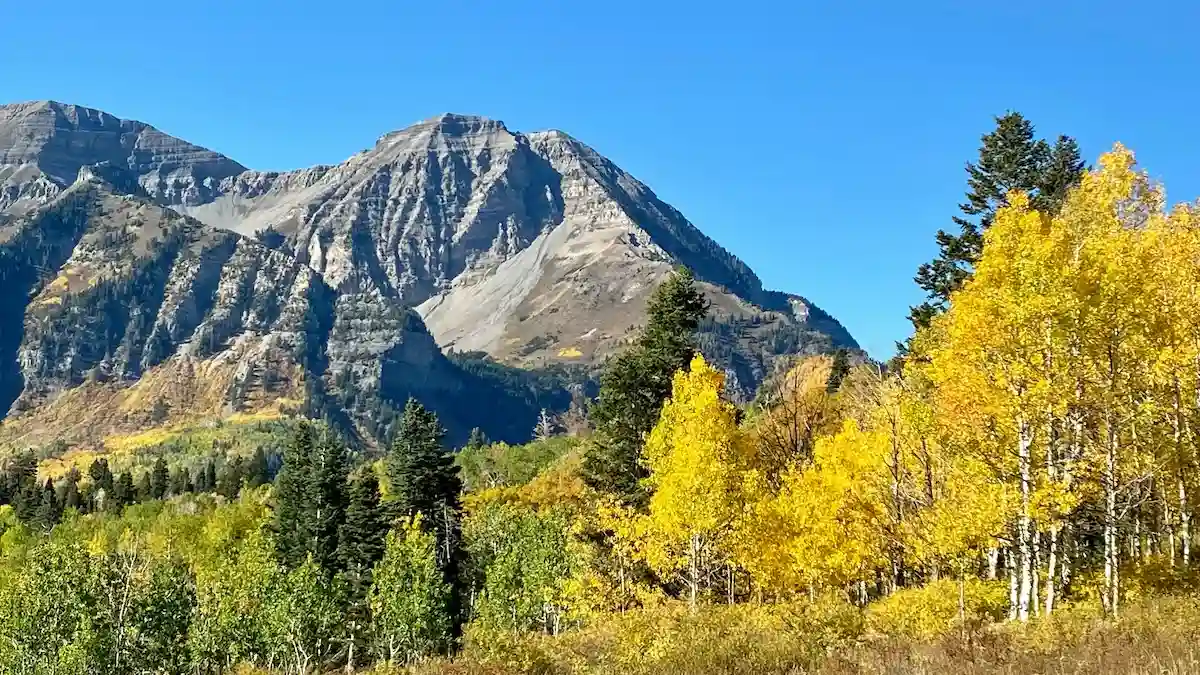
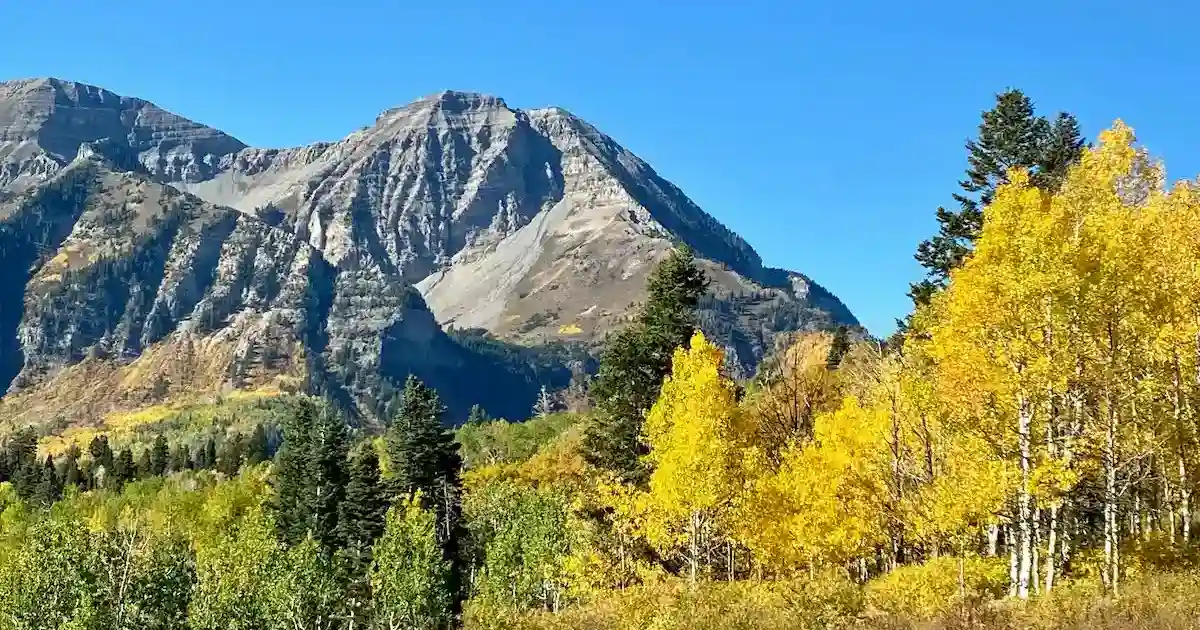
forecast and hero image

diff --git a/chamber/scripts/weather.js b/chamber/scripts/weather.js
@@ -7,13 +7,12 @@ const humidity = document.querySelector("#humidity");
 const sunrise = document.querySelector("#sunrise");
 const sunset = document.querySelector("#sunset");
 
-
 const myKey = "06a29db331dace161608e9db83a9b2f3";
 const myLat = "40.38";
 const myLong = "-111.74";
 
 const url = `//api.openweathermap.org/data/2.5/weather?lat=${myLat}&lon=${myLong}&units=imperial&appid=${myKey}`
-const forcastUrl = `//api.openweathermap.org/data/2.5/forecast?lat=${myLat}&lon=${myLong}&units=imperial&appid=${myKey}`
+const forecastUrl = `//api.openweathermap.org/data/2.5/forecast?lat=${myLat}&lon=${myLong}&units=imperial&appid=${myKey}`
 
 async function apiFetch() {
     try {
@@ -54,13 +53,19 @@ function displayResults(data) {
     sunset.textContent = formatTime(data.sys.sunset);
 }
 
+function formatDay(daystamp) {
+    return new Date(daystamp * 1000).toLocaleDateString("en-US", {
+        weekday: "long"
+    });
+}
+
 async function apiFetchForecast() {
     try {
-        const response = await fetch(url);
+        const response = await fetch(forecastUrl);
         if (response.ok) {
             const data = await response.json();
             console.log(data);
-            displayResults(data);
+            displayForecast(data);
         } else {
             throw Error(await response.text());
         }
@@ -69,21 +74,14 @@ async function apiFetchForecast() {
     }
 }
 
-function displayResults(forecastData) {
-    currentTemp.innerHTML = `${Math.round(data.main.temp)}&deg;F`;
+function displayForecast(data) {
+    const dayZero = document.querySelector("#dayZero");
+    const dayOne = document.querySelector("#dayOne");
 
-    const iconsrc = `https://openweathermap.org/img/wn/${data.weather[0].icon}@2x.png`;
-    weatherIcon.setAttribute('src', iconsrc);
-    weatherIcon.setAttribute('alt', data.weather[0].description);
-
-    captionDesc.textContent = `${data.weather[0].description}`;
-
-    highTemp.innerHTML = `${Math.round(data.main.temp_max)}&deg;`;
-    lowTemp.innerHTML = `${Math.round(data.main.temp_min)}&deg;`;
-    humidity.textContent = `${data.main.humidity}%`;
-
-    sunrise.textContent = formatTime(data.sys.sunrise);
-    sunset.textContent = formatTime(data.sys.sunset);
+    dayZero.innerHTML = `${Math.round(data.list[0].main.temp)}&deg;F`;
+    dayOne.innerHTML = `${formatDay(data.list[8].dt)}: ${Math.round(data.list[1].main.temp)}&deg;F`;
+    dayTwo.innerHTML = `${formatDay(data.list[16].dt)}: ${Math.round(data.list[1].main.temp)}&deg;F`;
 }
 
 apiFetch();
+apiFetchForecast();

diff --git a/chamber/index.html b/chamber/index.html
@@ -27,7 +27,7 @@
 
     <script src="scripts/navigation.js" defer></script>
     <script src="scripts/date.js" defer></script>
-    <!-- <script src="scripts/members.js" defer></script> -->
+    <script src="scripts/spotlight.js" defer></script>
     <script src="scripts/menu.js" defer></script>
     <script src="scripts/weather.js" defer></script>
 </head>
@@ -41,12 +41,18 @@
     <nav id="nav-bar" class="navigation">
         <ul>
             <li class="current"><a href="#">Home</a></li>
-            <li><a href="#">Directory</a></li>
+            <li><a href="directory.html">Directory</a></li>
             <li><a href="#">Join</a></li>
             <li><a href="#">Discover</a></li>
         </ul>
     </nav>
     <main>
+        <div class="hero">
+            <picture>
+                <img src="images/afcanyon.webp" alt="af-canyon" class="hero-image">
+            </picture>
+            <button>Join Us!</button>
+        </div>
         <h1>Home</h1>        
         <article>
             <div class="events">
@@ -82,9 +88,9 @@
             </div>
             <div class="forecast">
                 <h2>Weather Forecast</h2>
-                <p>Today: <span id="today"></span></p>
-                <p id="tomorrow"><span id="today"></span></p>
-                <p id="tom-plus-one"><span id="today"></span></p>
+                <p>Today: <span id="dayZero"></span></p>
+                <p id="dayOne"></p>
+                <p id="dayTwo"></p>
             </div>
         </article>
         <section class="spotlight">

diff --git a/chamber/styles/base.css b/chamber/styles/base.css
@@ -159,6 +159,18 @@ h1 {
 }
 
 /* home page css */
+.hero {
+    width: 100%;
+    margin: 0 auto;
+}
+
+.hero-image {
+    width: 100%;
+    height: auto;
+    display: block;
+}
+
+
 article {
     display: block;    
     padding-bottom: 1.5rem;
@@ -183,6 +195,7 @@ article {
 .events {
     display: grid;
     grid-template-columns: 1fr 1fr 1fr;
+    column-gap: 10px;
 }
 
 .events h2 {
@@ -209,6 +222,10 @@ article {
     padding: .2rem;
 }
 
+.forecast p {
+    font-weight: 700;
+    font-size: large;
+}
 
 /* home page css */
 

diff --git a/chamber/directory.html b/chamber/directory.html
@@ -37,7 +37,7 @@
     </header>
     <nav id="nav-bar" class="navigation">
         <ul>
-            <li><a href="#">Home</a></li>
+            <li><a href="index.html">Home</a></li>
             <li class="current"><a href="#">Directory</a></li>
             <li><a href="#">Join</a></li>
             <li><a href="#">Discover</a></li>

diff --git a/chamber/scripts/spotlight.js b/chamber/scripts/spotlight.js
@@ -1,0 +1,1 @@
+const jsonFilepath = 'data/members.json';
